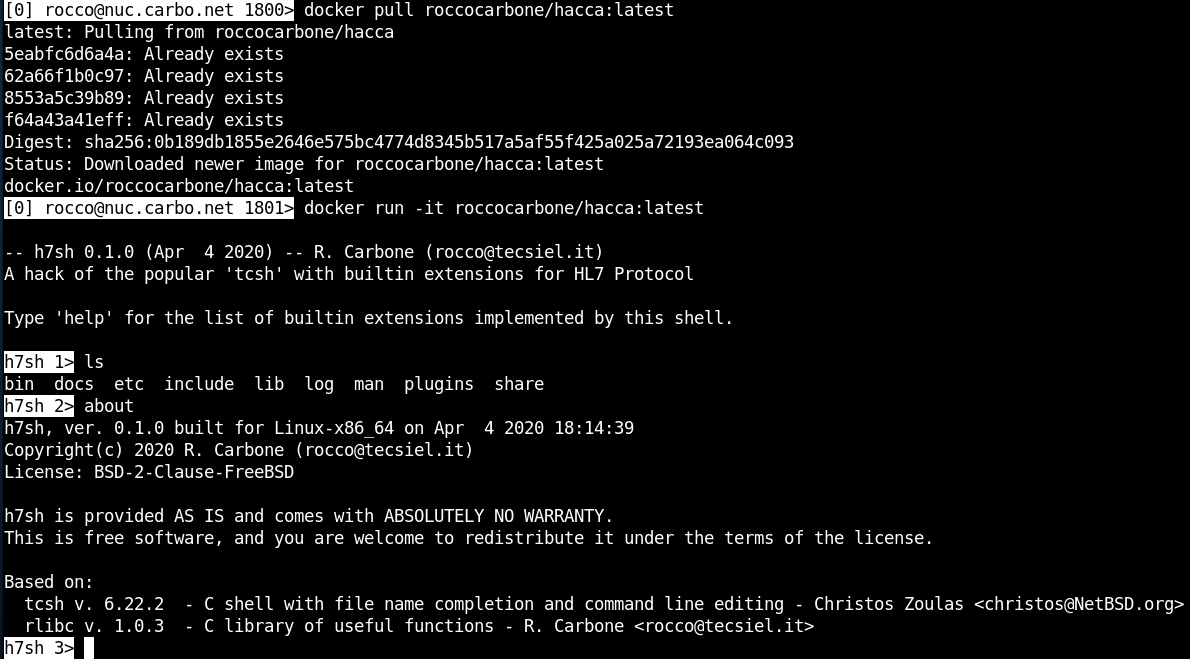
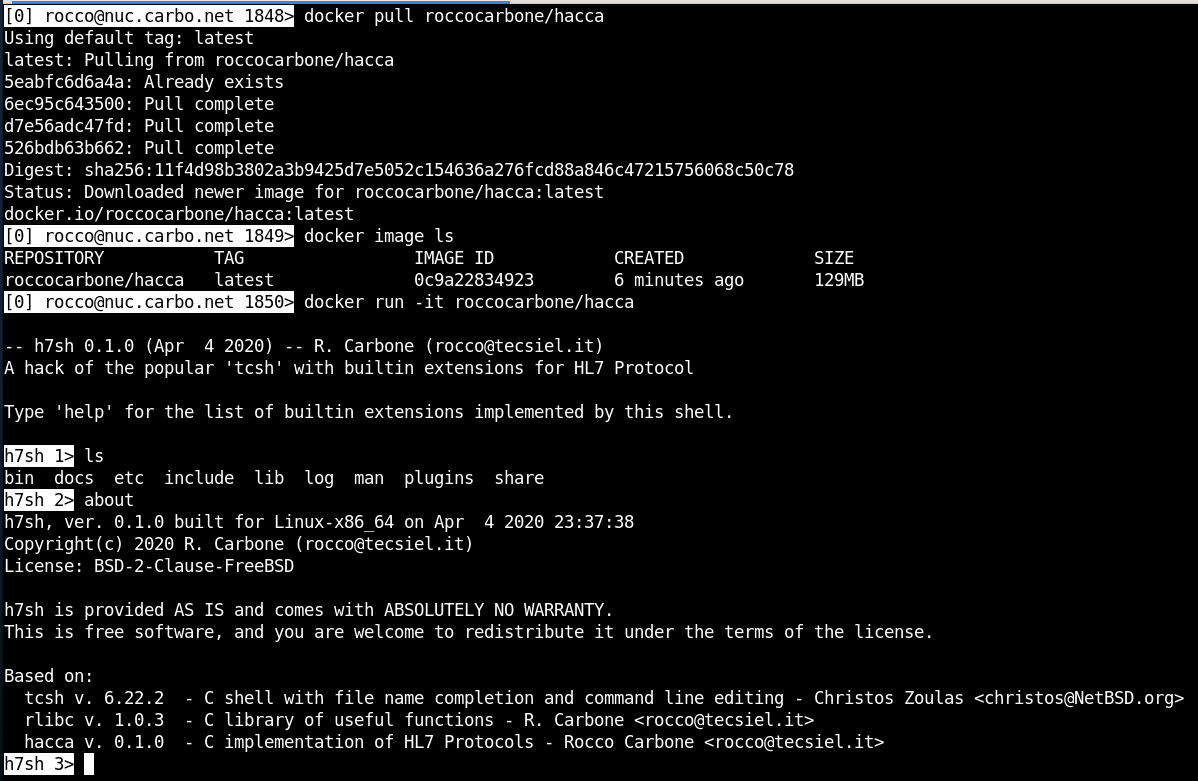
fix to REAME for impatiens

diff --git a/README.md b/README.md
@@ -32,8 +32,29 @@ The container is interactive, meaning that the Docker-CLI will talk directly wit
 
 It can be easily pulled and run using the following commands:
 ```
-   user@somehost 1> docker pull roccocarbone/hacca:latest
-   user@somehost 2> docker run -it roccocarbone/hacca:latest
+   user@somehost 1> docker pull roccocarbone/hacca
+   Using default tag: latest
+   latest: Pulling from roccocarbone/hacca
+   5eabfc6d6a4a: Already exists 
+   6ec95c643500: Pull complete 
+   d7e56adc47fd: Pull complete 
+   526bdb63b662: Pull complete 
+   Digest: sha256:11f4d98b3802a3b9425d7e5052c154636a276fcd88a846c47215756068c50c78
+   Status: Downloaded newer image for roccocarbone/hacca:latest
+   docker.io/roccocarbone/hacca:latest
+
+   user@somehost 2> docker docker image ls
+   REPOSITORY           TAG                 IMAGE ID            CREATED             SIZE
+   roccocarbone/hacca   latest              0c9a22834923        6 minutes ago       129MB
+
+   user@somehost 3> docker run -it roccocarbone/hacca
+
+   -- h7sh 0.1.0 (Apr  4 2020) -- R. Carbone (rocco@tecsiel.it)
+   A hack of the popular 'tcsh' with builtin extensions for HL7 Protocol
+
+   Type 'help' for the list of builtin extensions implemented by this shell.
+
+   h7sh 1> 
 ```
 
 ![impatiens]
